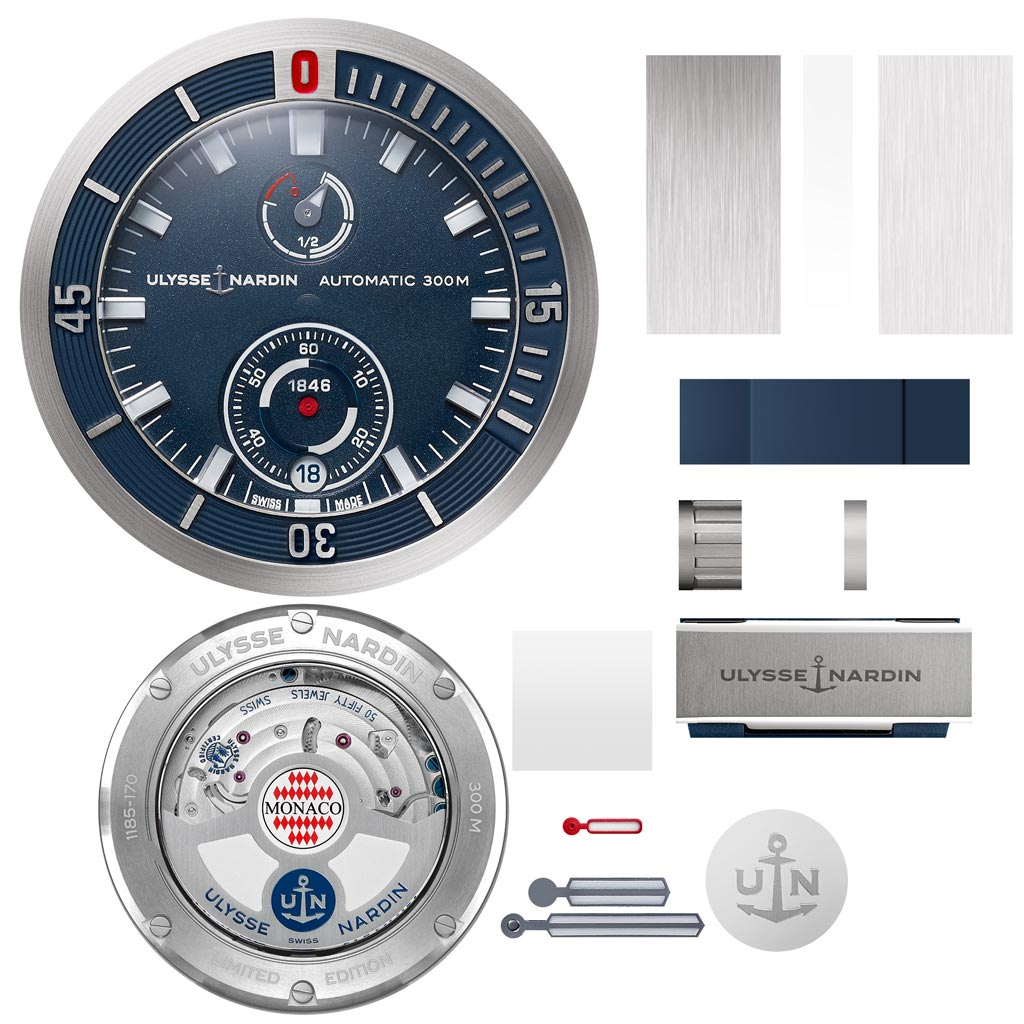
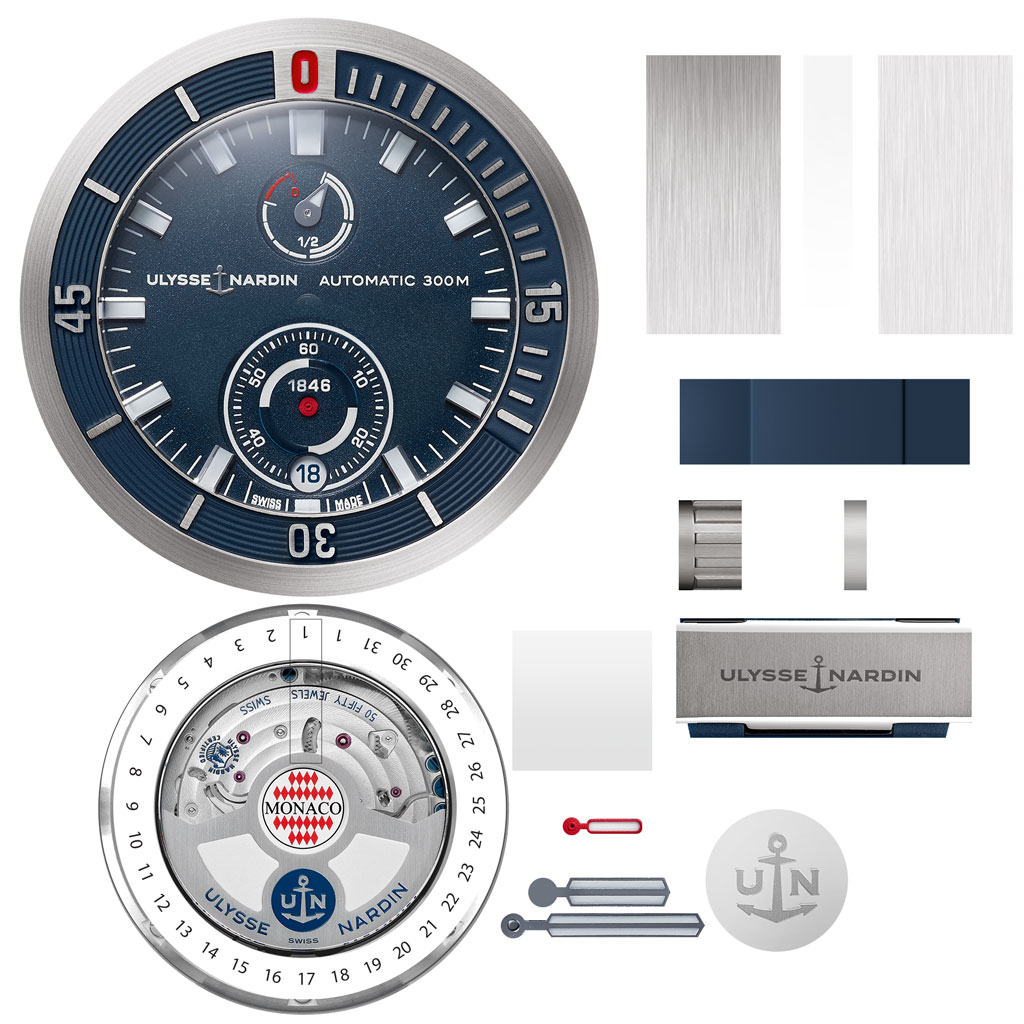
add dynamic hours

Changed region(s): [[0.0938, 0.5938, 0.5, 1.0], [0.2812, 0.75, 0.3125, 0.8438], [0.2812, 0.0625, 0.3125, 0.0938]]

diff --git a/src/components/three/models/WatchModel.js b/src/components/three/models/WatchModel.js
@@ -19,6 +19,8 @@ export default class WatchModel extends THREE.Object3D {
   minutesHand
   secondsHand
 
+  dayDisc
+
   meshWidth = 0
   meshHalfWidth = 0
 
@@ -76,6 +78,7 @@ export default class WatchModel extends THREE.Object3D {
     })
 
     this.initHands()
+    this.initDays()
   }
 
   initHands () {
@@ -106,6 +109,19 @@ export default class WatchModel extends THREE.Object3D {
       repeat: -1,
       ease: Linear.easeNone
     })
+  }
+
+  initDays () {
+    this.model.traverse((child) => {
+      if (child instanceof THREE.Mesh) {
+        if (child.name === 'Disc_DATE') {
+          this.dayDisc = child
+        }
+      }
+    })
+    let date = new Date()
+    let day = date.getUTCDate()
+    this.dayDisc.rotation.z = -THREE.Math.degToRad(11.25 * (day - 1))
   }
 
   orientWatch (factor) {
